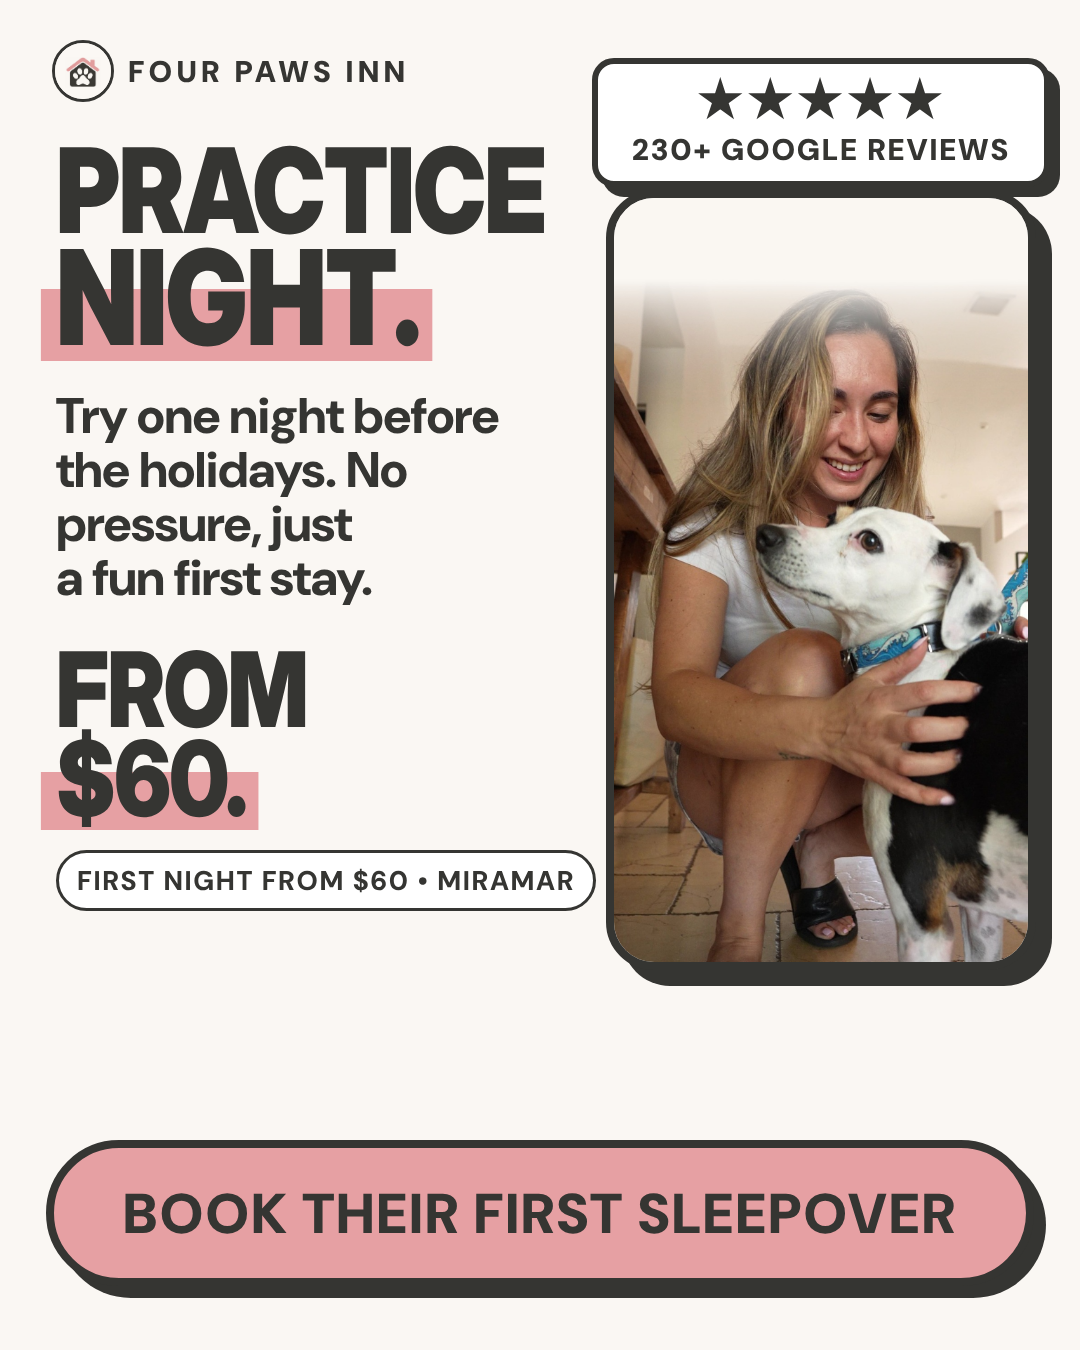
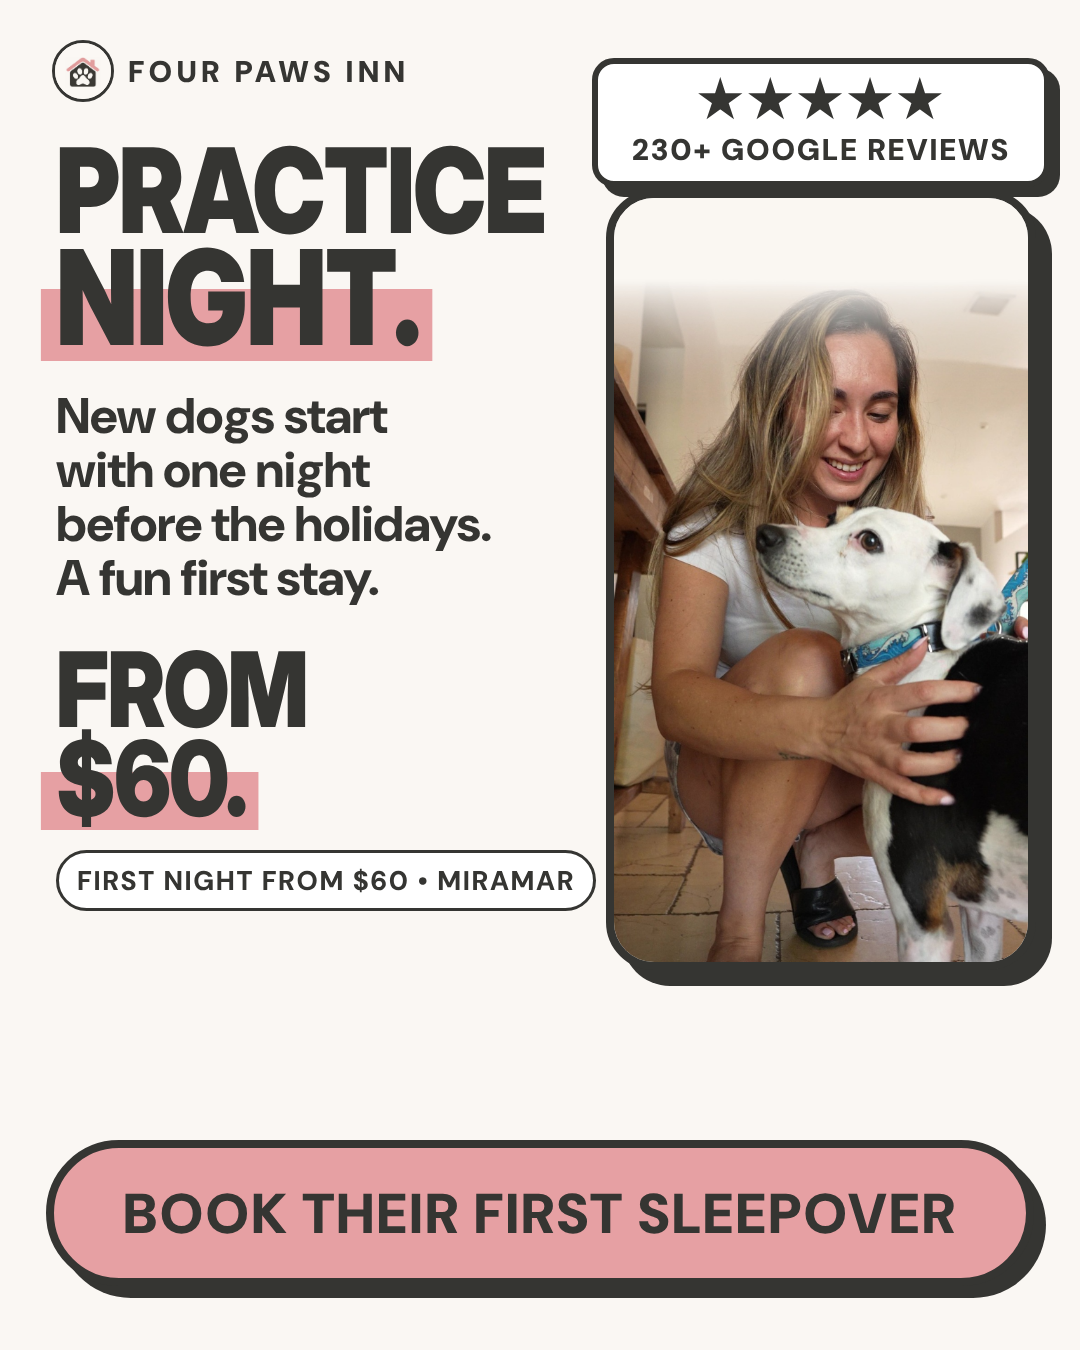
First night required for new dogs before holidays (Alex final)
Claude-Session: https://claude.ai/code/session_01CuiBP4cscBkzuvo8JUyMNz

Changed region(s): [[0.0306, 0.28, 0.4583, 0.4667]]

diff --git a/content/ads/statics/2026-11-04-first-sleepover/preview.js b/content/ads/statics/2026-11-04-first-sleepover/preview.js
@@ -1,8 +1,8 @@
 const fs=require("fs"),path=require("path");const {chromium}=require("playwright");
 const F=(n)=>fs.readFileSync(path.join(__dirname,"../../../../scripts/morning-posts/fonts",n)).toString("base64");
 const logo=fs.readFileSync(path.join(__dirname,"../../../brand/logo-icon-square-1080.png")).toString("base64");
-const A=`Give your dog a first sleepover before the holiday rush.<br><br>One night with us is an easy way to start. Your dog meets our team, explores the house and yard, plays, and sleeps over. You get a video update so you can see how it's going.<br><br>That way, when you travel for the holidays, your dog has already been here.<br><br>Four Paws Inn is a family run home in Miramar with 230+ Google reviews.<br><br>One night is $60 for dogs under 50 lb with pick up before 10 AM. Other sizes and puppies have different rates. A first night is not a holiday reservation; a deposit holds your dates.<br><br>Send us a date for their first sleepover.`;
-const B=`New to Four Paws Inn? Start with one night.<br><br>It's not required, but it's a nice way to begin. Your dog gets to know our home and our team before a longer trip, and you get to see how they do.<br><br>Holiday weeks get busy, so now is a good time to try us.<br><br>Four Paws Inn is a family run home in Miramar with 230+ Google reviews.<br><br>One night is $60 for dogs under 50 lb with pick up before 10 AM. Other sizes and puppies have different rates. A first night is not a holiday reservation; a deposit holds your dates.<br><br>Send us a date.`;
+const A=`Give your dog a first sleepover before the holiday rush.<br><br>One night with us is an easy way to start. Your dog meets our team, explores the house and yard, plays, and sleeps over. You get a video update so you can see how it's going.<br><br>New dogs do one first night with us before any holiday stay. That way, when you travel, your dog has already been here.<br><br>Four Paws Inn is a family run home in Miramar with 230+ Google reviews.<br><br>One night is $60 for dogs under 50 lb with pick up before 10 AM. Other sizes and puppies have different rates. A first night is not a holiday reservation; a deposit holds your dates.<br><br>Send us a date for their first sleepover.`;
+const B=`New to Four Paws Inn? Start with one night.<br><br>Before any holiday stay, new dogs do one first night with us. Your dog gets to know our home and our team, and you get to see how they do.<br><br>Holiday weeks get busy, so now is a good time to try us.<br><br>Four Paws Inn is a family run home in Miramar with 230+ Google reviews.<br><br>One night is $60 for dogs under 50 lb with pick up before 10 AM. Other sizes and puppies have different rates. A first night is not a holiday reservation; a deposit holds your dates.<br><br>Send us a date.`;
 const items=[["png/AD73-FIRST-SLEEPOVER.png",A],["png/AD74-MEET-US-FIRST.png",A],["png/AD75-MEET-THE-SITTER.png",A],["png/AD76-BEAT-THE-HOLIDAY-RUSH.png",A],["png/AD77-NEW-TO-US.png",B],["png/AD78-START-SMALL.png",B],["png/AD79-SECOND-HOME.png",A],["png/AD80-PRACTICE-NIGHT.png",B]];
 const html=(img,txt)=>`<!doctype html><html><head><meta charset="utf-8"><style>
 @font-face{font-family:"DM Sans";src:url(data:font/woff2;base64,${F("DMSans-normal.woff2")}) format("woff2");font-weight:100 1000;}

diff --git a/content/ads/statics/2026-11-04-first-sleepover/render.js b/content/ads/statics/2026-11-04-first-sleepover/render.js
@@ -10,7 +10,7 @@ const ads=[
  {id:"AD77-NEW-TO-US",a:"NEW",b:"TO US?",sub:"Start with one night. Your dog gets to know our home and our team.",c:"WE'D LOVE",d:"TO MEET THEM.",tag:"FIRST NIGHT FROM $60  •  MIRAMAR",photo:"yard-lab.jpg",pos:"78% 50%",btn:"BOOK THEIR FIRST SLEEPOVER",bs:56},
  {id:"AD78-START-SMALL",a:"A WEEK AWAY",b:"ON DAY ONE?",sub:"Start with one night first. It can make the big trip easier.",c:"START",d:"SMALL.",tag:"FIRST NIGHT FROM $60  •  MIRAMAR",photo:"kneel-indoor.jpg",pos:"50% 50%",btn:"BOOK THEIR FIRST SLEEPOVER",bs:56},
  {id:"AD79-SECOND-HOME",a:"THEIR",b:"SECOND HOME.",sub:"One night now, so your dog already knows us when the holidays come.",c:"COME",d:"SAY HI.",tag:"FIRST NIGHT FROM $60  •  MIRAMAR",photo:"h08.jpg",pos:"50% 50%",btn:"BOOK THEIR FIRST SLEEPOVER",bs:56},
- {id:"AD80-PRACTICE-NIGHT",a:"PRACTICE",b:"NIGHT.",sub:"Try one night before the holidays. No pressure, just a fun first stay.",c:"FROM",d:"$60.",tag:"FIRST NIGHT FROM $60  •  MIRAMAR",photo:"amanda-poster.jpg",pos:"50% 60%",btn:"BOOK THEIR FIRST SLEEPOVER",bs:56}
+ {id:"AD80-PRACTICE-NIGHT",a:"PRACTICE",b:"NIGHT.",sub:"New dogs start with one night before the holidays. A fun first stay.",c:"FROM",d:"$60.",tag:"FIRST NIGHT FROM $60  •  MIRAMAR",photo:"amanda-poster.jpg",pos:"50% 60%",btn:"BOOK THEIR FIRST SLEEPOVER",bs:56}
 ];
 const html=(x)=>`<!doctype html><html><head><meta charset="utf-8"><style>
 @font-face{font-family:"DM Sans";src:url(data:font/woff2;base64,${F("DMSans-normal.woff2")}) format("woff2");font-weight:100 1000;}

diff --git a/fourpawsinn/business-facts.md b/fourpawsinn/business-facts.md
@@ -55,7 +55,7 @@ Four Paws Inn charges by day, never by night.
 ## Booking and care policies
 
 - A 25% deposit reserves the dates.
-- **First sleepover before the holidays (Alex, Nov 4, 2026, replaces the Nov 3 'holidays are for regulars' rule):** strongly promote one overnight before the holiday rush, but it is NOT mandatory. New dogs can still book holiday stays. Never say only returning dogs, or only dogs who did an overnight, can book holidays. Never guarantee holiday availability. Keep it warm and inviting, no guilt. Approved line: "Give your dog a first sleepover before the holiday rush." (Vanilla's required overnight was Alex's call for that one dog.)
+- **First night REQUIRED before a holiday stay (Alex, Nov 4, 2026, final; overrides the 'not mandatory' note from the same day):** a new dog does one first overnight with us before any holiday stay (normal rate). Returning dogs don't need it. Say it warmly, no guilt. A first night does NOT reserve a holiday spot or guarantee space; only a deposit holds dates. Approved line: "Give your dog a first sleepover before the holiday rush." Bookings already confirmed before Nov 4 (Shamika Nov 20 to 28, Dayana Nov 23 to 27): Alex decides.
 - Holiday hold before a trial overnight (Alex, Nov 2, 2026): when holiday spots are nearly gone, a new dog who still needs a first overnight MAY pay the 25% deposit now to hold the spot. Tell them upfront: we are almost booked and past clients are calling. The deposit is not refundable, but if the stay does not work out (not a fit for the group and no suite), it becomes credit for any stay within one year. Past clients who have stayed before can take a holiday spot without a trial overnight. This replaces 'no deposit until she passes' for holiday holds.
 - Payment methods (Alex, Oct 20, 2026): Zelle to 754-971-0792, Apple Pay to 754-971-0792, or credit card (Alex sends a card payment link on request). Deposit is 25% of the full stay with the last day included; if they pick up before 10 AM, the last day comes off the remaining balance.
 - Full payment is due before drop-off (Alex, Oct 15, 2026). The deposit reserves the stay; the rest is paid before the dog arrives.

diff --git a/content/ads/statics/2026-11-04-first-sleepover/copy.md b/content/ads/statics/2026-11-04-first-sleepover/copy.md
@@ -56,3 +56,6 @@ Headline: "Give your dog a first sleepover. 4.9 stars, 230+ reviews." Button: Ge
 6. Softened: "Your dog will love it too" to "It helps your dog too"; "feels easy" to "feels easier"; "It makes the big trip easier" to "It can make the big trip easier"; text A "your dog already knows us" to "your dog has already been here".
 Headline now: "Give your dog a first sleepover. 230+ Google reviews."
 Codex picked AD73 First Sleepover and AD77 New to Us as strongest.
+
+## v3 (Alex, Nov 4, final): first night is REQUIRED for new dogs before a holiday stay
+Alex overrode the 'not mandatory' note; all other Codex notes stay. Text A adds: 'New dogs do one first night with us before any holiday stay.' Text B: 'Before any holiday stay, new dogs do one first night with us.' (replaces 'It's not required'). AD80 line: 'New dogs start with one night before the holidays. A fun first stay.' Still: a first night is not a holiday reservation; a deposit holds dates. No guilt, no guaranteed space.
